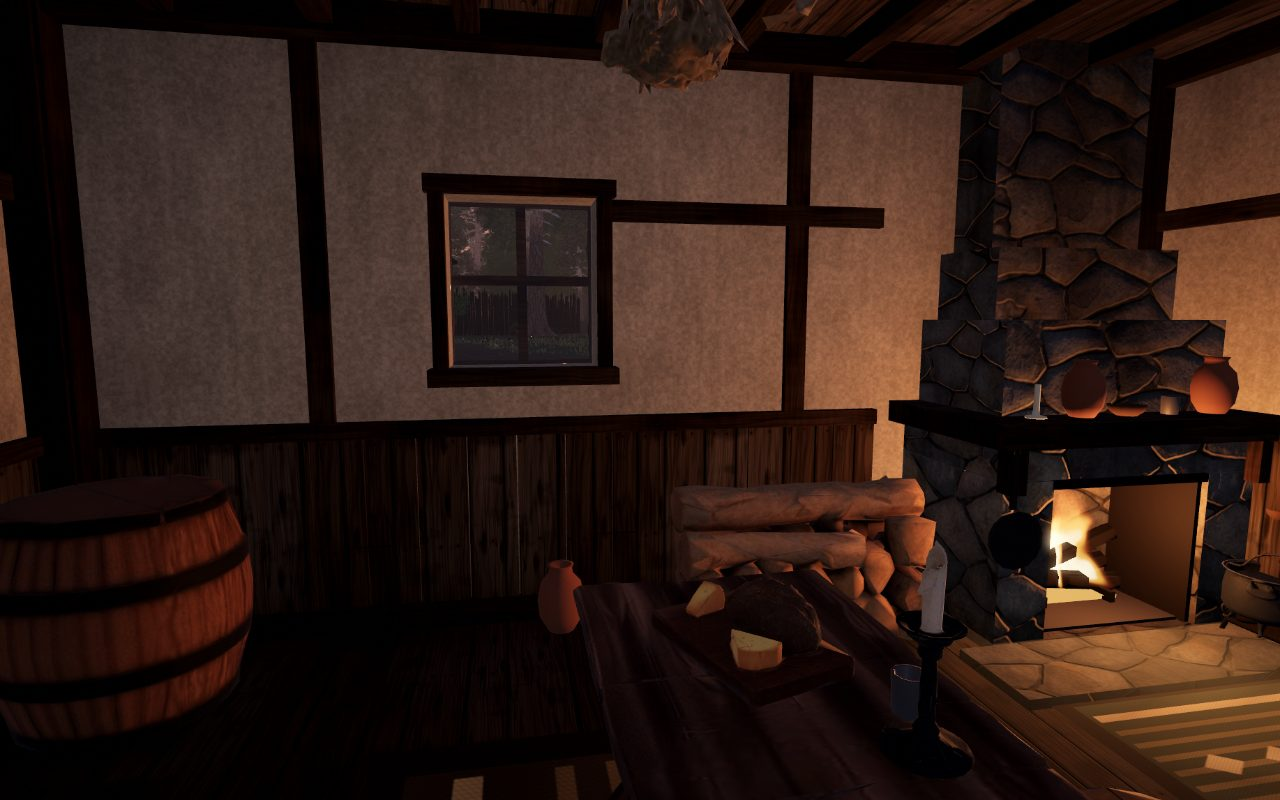
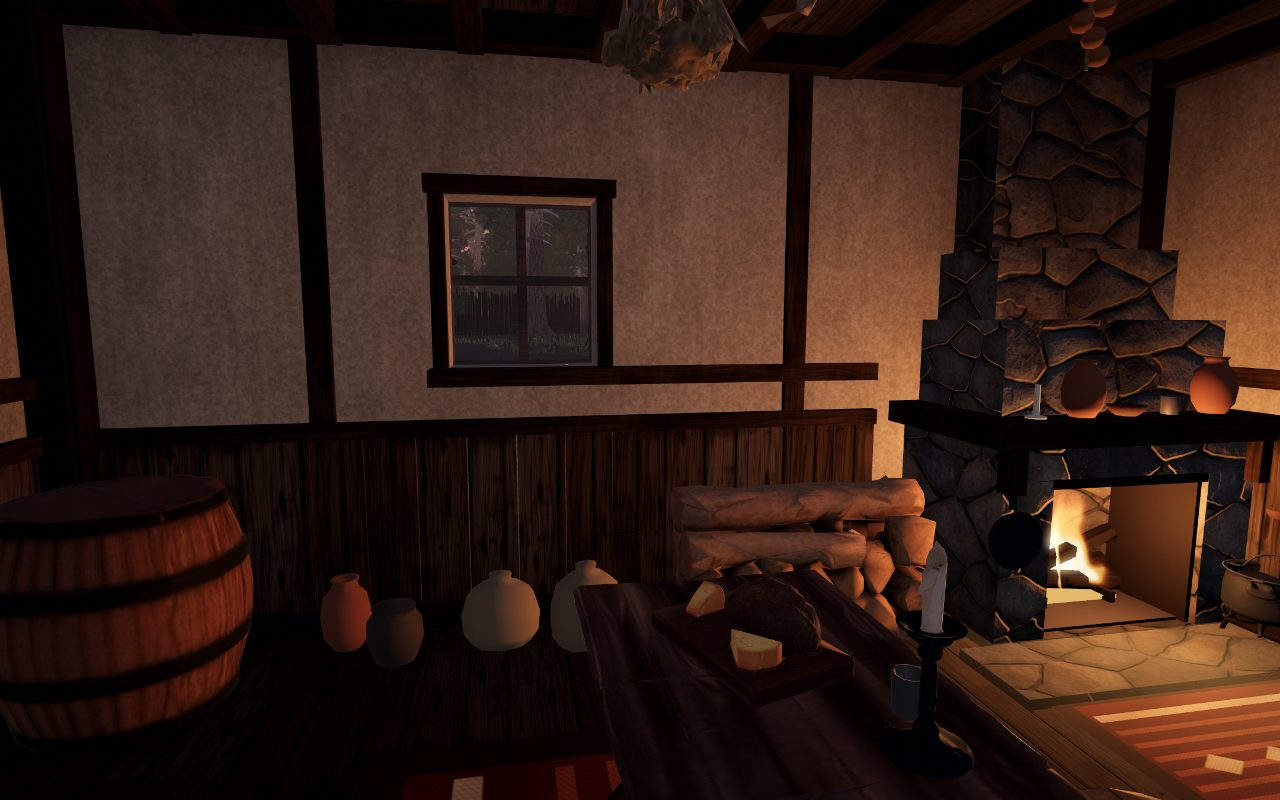
A136: second pass on the hearth rooms
Replace the mid-wall rail with a sill girt aligned to the windows' sills;
cut the plaster into finer cells and shade it per vertex (uneven lime
wash, per-panel tone, smoke under the ceiling and round the hearth);
heavier tie beams and joists with dark gaps overhead; textured, uneven
firewood with bark, split faces and ringed ends; onions and herbs hung
before each hearth and tool rails under free windows.

(cherry picked from commit 07d448e3019b1955150fed5c0b6c52b761b05814)

diff --git a/src/presentation/buildings.ts b/src/presentation/buildings.ts
@@ -133,7 +133,8 @@ export function roomInterior(R: Region, room: InteriorSpec, windows: { x: number
   const beams = Math.max(1, Math.round(b.w / 2.4) - 1);
   for (let i = 1; i <= beams; i++) {
     const x = -hw + (i * 2 * hw) / (beams + 1) + (inner() - 0.5) * 0.2;
-    R.timber.bx(x - 0.09, top - 0.24, -hd - 0.05, x + 0.09, top - 0.05, hd + 0.05, frame(), { grain: 'z', jit: 0.05, amp: 0.02 });
+    // A136: heavy tie beams, the joists over them darker in the gaps between (roomShade).
+    R.timber.bx(x - 0.13, top - 0.34, -hd - 0.05, x + 0.13, top - 0.05, hd + 0.05, frame(), { grain: 'z', jit: 0.05, amp: 0.02 });
   }
   for (const sz of [-1, 1]) R.timber.bx(-hw - 0.02, top - 0.19, sz * hd - 0.08, hw + 0.02, top - 0.05, sz * hd + 0.08, frame(), { grain: 'x', jit: 0.04, amp: 0.02 });
   if (floorOf === 'planks') roomFrame(R, room, windows, inner, frame);
@@ -252,21 +253,23 @@ function roomFrame(R: Region, room: InteriorSpec, windows: readonly RoomWindow[]
         return onSide && Math.abs((along === 'x' ? w.x : w.z) - t) < w.w / 2 + 0.35;
       });
     const posts = [-len + 0.09, len - 0.09, ...(len > 2.2 ? [-len * 0.36, len * 0.36] : []), 0].filter(clear);
-    // A136: the plaster above the wainscot framed as well: studs between the posts, and a rail across each panel where
-    // no window breaks it, so no stretch of bare plaster is wider than about 0.8 m or taller than the rail's gap.
+    // A136: the plaster above the wainscot framed as well: studs between the posts, so no stretch of bare plaster is
+    // wider than about 0.8 m.
     const studs: number[] = [];
     for (let t = -len + 0.5; t < len - 0.4; t += 0.78) if (clear(t) && !posts.some((p) => Math.abs(p - t) < 0.42)) studs.push(t);
     for (const t of studs) piece('timber', side, t - 0.055, t + 0.055, wainscot + 0.04, top - 0.18, 0, 0.04, frame(), 'y');
-    const rail = floor + 2.05, inWindow = (t: number) => windows.some((w) => {
-      const onSide = side === 'back' ? w.z < -hd + 0.3 : side === 'front' ? w.z > hd - 0.3 : side === 'left' ? w.x < -hw + 0.3 : w.x > hw - 0.3;
-      return onSide && Math.abs((along === 'x' ? w.x : w.z) - t) < w.w / 2 + 0.06;
-    });
-    for (const [t0, t1] of runs(side, len)) {
-      let s0: number | null = null;
-      for (let t = t0; t <= t1 + 1e-6; t += 0.05) {
-        const ok = t < t1 - 1e-6 && !inWindow(t);
-        if (ok && s0 === null) s0 = t;
-        if (!ok && s0 !== null) { if (t - s0 > 0.3) piece('timber', side, s0, t, rail - 0.05, rail + 0.05, 0, 0.045, frame(), along); s0 = null; }
+    // A sill girt only on a wall with windows: at their sill line, wall to wall, stopping at each window's frame, so the
+    // frame sits on it (a rail at any other height read as a cross nailed beside the window).
+    const mine = windows.filter((w) => (side === 'back' ? w.z < -hd + 0.3 : side === 'front' ? w.z > hd - 0.3 : side === 'left' ? w.x < -hw + 0.3 : w.x > hw - 0.3));
+    if (mine.length) {
+      const sill = Math.min(...mine.map((w) => w.y)), inWindow = (t: number) => mine.some((w) => Math.abs((along === 'x' ? w.x : w.z) - t) < w.w / 2 + 0.09);
+      for (const [t0, t1] of runs(side, len)) {
+        let s0: number | null = null;
+        for (let t = t0; t <= t1 + 1e-6; t += 0.02) {
+          const ok = t < t1 - 1e-6 && !inWindow(t);
+          if (ok && s0 === null) s0 = t;
+          if (!ok && s0 !== null) { if (t - s0 > 0.25) piece('timber', side, s0, t, sill - 0.09, sill, 0, 0.05, frame(), along); s0 = null; }
+        }
       }
     }
     for (const t of posts) {
@@ -280,7 +283,7 @@ function roomFrame(R: Region, room: InteriorSpec, windows: readonly RoomWindow[]
     }
   }
   // Joists across under the ceiling boards.
-  for (const z of joistsOf(room)) R.timber.bx(-hw, top - 0.16, z - 0.05, hw, top - 0.05, z + 0.05, frame(), { grain: 'x', jit: 0.05, amp: 0.03 });
+  for (const z of joistsOf(room)) R.timber.bx(-hw, top - 0.2, z - 0.06, hw, top - 0.05, z + 0.06, frame(), { grain: 'x', jit: 0.05, amp: 0.03 });
 }
 
 /**
@@ -308,8 +311,27 @@ export function roomShade(room: InteriorSpec, frame: THREE.Matrix4): (x: number,
       }
       if (h < 0.1 && lz < HEARTH_SHAPE.slab + 0.5) k *= 1 - 0.25 * Math.exp(-(lx * lx) / 0.5) * Math.min(1, Math.max(0, (HEARTH_SHAPE.slab + 0.5 - lz) / 0.5));
     }
-    return Math.max(0.28, k);
+    // A136: the plaster. Lime wash laid on unevenly, each panel between the studs its own shade, smoke under the
+    // ceiling, and the boards overhead dark between the joists.
+    const onWall = Math.min(ax, az) < 0.06 && y > floor + 1.0 && y < top - 0.06;
+    if (onWall) {
+      const t = ax < az ? z : x;
+      k *= 0.9 + 0.1 * valueNoise(t * 1.6, y * 2.1) + 0.05 * (valueNoise(t * 5.3 + 7, y * 4.7) - 0.5);
+      k *= 0.93 + 0.09 * hashUnit(Math.floor((t + 20) / 0.78) + (ax < az ? 0.5 : 0));
+      k *= 1 - 0.22 * Math.max(0, (y - (top - 0.9)) / 0.9) ** 1.5;
+      if (soot) k *= 1 - 0.3 * Math.exp(-((x - hearth.stack.x) ** 2 + (z - hearth.stack.z) ** 2) / 2.2) * Math.min(1, Math.max(0, y - floor - 1.1));
+    }
+    if (y > top - 0.06 && y < top + 0.03) k *= 0.5 * (soot ? 1 - 0.25 * Math.exp(-((x - hearth.stack.x) ** 2 + (z - hearth.stack.z) ** 2) / 4) : 1);
+    return Math.max(0.2, k);
   };
+}
+
+const hashUnit = (n: number) => { const s = Math.sin(n * 127.1 + 311.7) * 43758.5453; return s - Math.floor(s); };
+/** Smooth value noise in [0, 1] (A136): the unevenness of a room's lime wash. */
+function valueNoise(x: number, y: number): number {
+  const ix = Math.floor(x), iy = Math.floor(y), fx = x - ix, fy = y - iy, u = fx * fx * (3 - 2 * fx), v = fy * fy * (3 - 2 * fy);
+  const h = (a: number, b: number) => hashUnit(a * 57 + b * 131);
+  return (h(ix, iy) * (1 - u) + h(ix + 1, iy) * u) * (1 - v) + (h(ix, iy + 1) * (1 - u) + h(ix + 1, iy + 1) * u) * v;
 }
 
 /** Any ordinary building: foundation, walls in the chosen material, sagging roof, door, windows, chimney, and the clutter of use. */
@@ -368,7 +390,8 @@ function buildStandardPass(R: Region, terrain: Terrain, b: BuildingSpec, out: Bu
     // Boards line the room inside, a little behind the outer boards so their gaps stay dark.
     roomWalls(R.planks, b.w - 0.06, b.d - 0.06, wallH, y0, t - 0.03, room.door, mulc(rgb(TINT.wood), 0.82), 0.7, openings);
   } else if (b.wall === 'plaster') {
-    roomWalls(R.plaster, b.w, b.d, wallH, y0, t, room.door, jitterTone(TINT.plaster, rnd, 0.06), 0.7, openings);
+    // A136: finer cells (0.3 m) so the lime wash and smoke inside (roomShade) read; the outside takes the same cells.
+    roomWalls(R.plaster, b.w, b.d, wallH, y0, t, room.door, jitterTone(TINT.plaster, rnd, 0.06), 0.3, openings);
     timberFrame(R, rnd, b.w, b.d, wallH, y0, gap, openings);
   } else {
     roomWalls(R.stone, b.w, b.d, wallH, y0, t, room.door, jitterTone(TINT.stone, rnd, 0.05), 0.9, openings);

diff --git a/src/presentation/clutter.ts b/src/presentation/clutter.ts
@@ -183,20 +183,85 @@ function mergeColoured(parts: [THREE.BufferGeometry, number][]): THREE.BufferGeo
 }
 
 /**
- * Split firewood stacked beside a hearth (A136): nine logs in rows of four, three and two, 0.6 m long and about 0.35 m
- * high, their sawn ends pale. Stands on y = 0, the logs along x.
+ * Split firewood stacked beside a hearth (A136): eleven logs in rows of four, four and three, about 0.55 m long and
+ * 0.4 m high, laid unevenly (each a little turned, pushed out or short), some whole in their bark and some split in half
+ * with the pale split face showing. One texture (`firewoodMaterial`) holds bark, the sawn end's rings and split grain in
+ * three columns; the geometry's uv picks the column. Stands on y = 0, the logs along x.
  */
 export function firewoodGeometry(): THREE.BufferGeometry {
-  const parts: [THREE.BufferGeometry, number][] = [];
+  const parts: THREE.BufferGeometry[] = [];
+  const column = (g: THREE.BufferGeometry, col: number) => {
+    const uv = g.getAttribute('uv');
+    for (let i = 0; i < uv.count; i++) uv.setX(i, (col + Math.min(0.999, Math.max(0, uv.getX(i)))) / 3);
+  };
   let k = 0;
-  for (const [row, n] of [4, 3, 2].entries()) for (let i = 0; i < n; i++) {
-    const r = 0.055 + ((k * 7) % 5) * 0.004, x = (((k * 13) % 7) - 3) * 0.012;
-    parts.push([new THREE.CylinderGeometry(r, r, 0.55, 6).rotateY(k * 0.9).rotateZ(Math.PI / 2).translate(x, 0.065 + row * 0.1, (i - (n - 1) / 2) * 0.125), k % 3 ? 0x2e2219 : 0x3b2e22]);
-    k++;
+  const rnd = (n: number) => { const x = Math.sin(n * 91.7 + 13.1) * 43758.5; return x - Math.floor(x); };
+  for (const [row, n] of [4, 4, 3].entries()) for (let i = 0; i < n; i++, k++) {
+    const r = 0.05 + rnd(k) * 0.025, len = 0.48 + rnd(k + 40) * 0.12, split = rnd(k + 80) < 0.45;
+    const theta = split ? Math.PI : Math.PI * 2;
+    const side = new THREE.CylinderGeometry(r, r * (0.92 + rnd(k + 9) * 0.1), len, 7, 1, true, 0, theta);
+    column(side, 0);
+    const ends = [len / 2, -len / 2].map((y) => {
+      const cap = new THREE.CircleGeometry(r, 7, 0, theta).rotateX(y > 0 ? -Math.PI / 2 : Math.PI / 2).translate(0, y, 0);
+      // A half disc turned to lie under the half shell (which covers +x).
+      if (split) cap.rotateY(y > 0 ? -Math.PI / 2 : Math.PI / 2);
+      column(cap, 1);
+      return cap;
+    });
+    const log: THREE.BufferGeometry[] = [side, ...ends];
+    if (split) {
+      // The split face: a flat plank through the axis.
+      const face = new THREE.PlaneGeometry(2 * r, len).rotateY(Math.PI / 2);
+      column(face, 2);
+      log.push(face);
+    }
+    const yaw = (rnd(k + 3) - 0.5) * 0.2, roll = split ? (row % 2 ? 1 : -1) * Math.PI / 2 + (rnd(k + 5) - 0.5) * 0.6 : rnd(k + 5) * 6;
+    for (const g of log) {
+      g.rotateY(roll).rotateZ(Math.PI / 2).rotateY(yaw);
+      g.translate((rnd(k + 7) - 0.5) * 0.08, 0.06 + row * 0.105 + (rnd(k + 11) - 0.5) * 0.015, (i - (n - 1) / 2) * 0.13 + (row % 2) * 0.03 + (rnd(k + 13) - 0.5) * 0.02);
+      parts.push(g);
+    }
   }
-  const g = mergeColoured(parts), n = g.getAttribute('normal'), c = g.getAttribute('color');
-  for (let i = 0; i < n.count; i++) if (Math.abs(n.getX(i)) > 0.9) c.setXYZ(i, 0.16, 0.1, 0.055);
-  return g;
+  const flat = parts.map((g) => (g.index ? g.toNonIndexed() : g));
+  const out = new THREE.BufferGeometry(), count = flat.reduce((n, g) => n + g.getAttribute('position').count, 0);
+  for (const [name, size] of [['position', 3], ['normal', 3], ['uv', 2]] as const) {
+    const arr = new Float32Array(count * size);
+    let o = 0;
+    for (const g of flat) { arr.set(g.getAttribute(name).array as Float32Array, o); o += g.getAttribute(name).count * size; }
+    out.setAttribute(name, new THREE.BufferAttribute(arr, size));
+  }
+  parts.forEach((g) => g.dispose()); flat.forEach((g) => g.dispose());
+  return out;
+}
+
+/** Bark, the rings of a sawn end and split grain (A136), drawn once on a small canvas. */
+export function firewoodMaterial(): THREE.MeshStandardMaterial {
+  const W = 384, H = 128, canvas = document.createElement('canvas');
+  canvas.width = W; canvas.height = H;
+  const g = canvas.getContext('2d')!;
+  const rnd = (n: number) => { const x = Math.sin(n * 12.9898) * 43758.5453; return x - Math.floor(x); };
+  // Bark: dark furrowed strips along the log, with lichen grey in places.
+  g.fillStyle = '#3a2c20'; g.fillRect(0, 0, 128, H);
+  for (let i = 0; i < 70; i++) {
+    const x = rnd(i) * 128, w = 1 + rnd(i + 99) * 4;
+    g.fillStyle = rnd(i + 7) < 0.5 ? '#1f170f' : rnd(i + 3) < 0.85 ? '#4e3d2c' : '#6d6a58';
+    g.fillRect(x, rnd(i + 5) * H * 0.5, w, H * (0.4 + rnd(i + 11) * 0.6));
+  }
+  // The sawn end: rings round a dark heart, a crack, cut marks.
+  const cx = 128 + 64, cy = 64;
+  g.fillStyle = '#9a7a52'; g.fillRect(128, 0, 128, H);
+  for (let r = 60; r > 2; r -= 3 + rnd(r) * 3) { g.strokeStyle = r % 2 ? 'rgba(80,52,30,0.55)' : 'rgba(150,118,80,0.5)'; g.lineWidth = 1.5; g.beginPath(); g.arc(cx, cy, r, 0, Math.PI * 2); g.stroke(); }
+  g.fillStyle = '#5a3e26'; g.beginPath(); g.arc(cx, cy, 5, 0, Math.PI * 2); g.fill();
+  g.strokeStyle = '#2a1c10'; g.lineWidth = 2; g.beginPath(); g.moveTo(cx, cy); g.lineTo(cx + 40, cy - 22); g.stroke();
+  // The rim of bark round the end.
+  g.strokeStyle = '#2a1e14'; g.lineWidth = 7; g.beginPath(); g.arc(cx, cy, 62, 0, Math.PI * 2); g.stroke();
+  // Split grain: pale, fibrous streaks along the log.
+  g.fillStyle = '#a4825a'; g.fillRect(256, 0, 128, H);
+  for (let i = 0; i < 60; i++) { g.fillStyle = rnd(i + 300) < 0.5 ? 'rgba(110,80,50,0.5)' : 'rgba(190,160,120,0.4)'; g.fillRect(256 + rnd(i + 200) * 128, 0, 1 + rnd(i + 250) * 2, H); }
+  const map = new THREE.CanvasTexture(canvas);
+  map.colorSpace = THREE.SRGBColorSpace;
+  map.anisotropy = 4;
+  return new THREE.MeshStandardMaterial({ map, roughness: 0.95, metalness: 0, side: THREE.DoubleSide });
 }
 
 /** A peg rail: a strip one unit long (scaled along x), its pegs at y = 0 standing out from the wall. */

diff --git a/src/world/dressing.ts b/src/world/dressing.ts
@@ -101,6 +101,14 @@ const RAILS: Record<string, HungKind[][]> = {
   brewer: [['ladle', 'onions'], ['rope', 'basket'], ['ladle']],
   inn: [['pan', 'ladle'], ['pan', 'onions']], fisher: [['rope', 'basket'], ['rope']], keeper: [['pan', 'ladle']], bakery: [['basket', 'ladle']],
 };
+/** What each household hangs under its windows (A136): the tools of its work, two to a rail. */
+const WINDOW_TOOLS: Record<string, HungKind[]> = {
+  weaver: ['basket', 'rope', 'ladle', 'basket'], woodcutter: ['axe', 'sickle', 'rope', 'axe'], herbalist: ['sickle', 'basket', 'onions', 'ladle'],
+  hunter: ['axe', 'rope', 'sickle', 'basket'], farmer: ['sickle', 'axe', 'basket', 'rope'], brewer: ['ladle', 'basket', 'rope', 'pan'],
+  inn: ['pan', 'ladle'], fisher: ['rope', 'basket'],
+};
+/** The rail under a window's sill girt (the sill is about 1.29 m over the floor); the longest tool clears the floor. */
+const WINDOW_RAIL_Y = 1.1;
 /** How wide each hung thing is along the rail, metres. */
 const HUNG_W: Record<HungKind, number> = { ladle: 0.14, pan: 0.3, sickle: 0.3, rope: 0.32, axe: 0.24, saw: 0.62, basket: 0.34, onions: 0.16 };
 /** A peg rail's height above the floor: above the wainscot, the things on it clear of the rail along its top. */
@@ -264,6 +272,42 @@ export function dressRoom(room: InteriorSpec, placed: readonly FurniturePlacemen
         k++;
       }
       if (k >= unhung.length) break;
+    }
+  }
+
+  // Onions and a bunch of herbs drying from the joist nearest the front of the hearth (A136), either side of the fire's
+  // light, where the room's usual views take them in.
+  if (hearth && room.building.kind !== 'bakery') {
+    const joists = joistsOf(room);
+    for (const [i, side] of [-1, 1].entries()) {
+      const p = hearth.at(side * 0.95, CHIMNEY_STACK + 1.25), z = joists.reduce((b, j) => (Math.abs(j - p.z) < Math.abs(b - p.z) ? j : b), joists[0]!);
+      if (Math.abs(p.x) > hw - 0.25 || Math.hypot(p.x - hearth.stack.x, z - hearth.stack.z) < 1.0) continue;
+      out.push(i === 0 ? { room, piece: 'hung', hung: 'onions', x: p.x, z, y: room.wallTop - room.floorTop - 0.2, yaw: hearth.yaw }
+        : { room, piece: 'herbs', x: p.x, z, y: room.wallTop - room.floorTop - 0.86, yaw: hearth.yaw + 0.7, scale: 0.85 });
+    }
+  }
+
+  // Tools on the window walls (A136): a short peg rail under a window's sill where nothing stands before it.
+  const tools = WINDOW_TOOLS[household] ?? [];
+  let tool = 0;
+  for (const w of windows) {
+    if (tool >= tools.length) break;
+    const front = { x0: w.x0 - 0.1, x1: w.x1 + 0.1, z0: w.z0 - 0.1, z1: w.z1 + 0.1 };
+    if (pieces.some((o) => near(front, o, 0.05)) || taken.some((o) => near(w, o, 0))) continue;
+    const wall: Wall = w.z0 <= -hd + 0.01 ? 'back' : w.z1 >= hd - 0.01 ? 'front' : w.x0 <= -hw + 0.01 ? 'left' : 'right';
+    const yaw = wall === 'back' ? 0 : wall === 'front' ? Math.PI : wall === 'left' ? Math.PI / 2 : -Math.PI / 2;
+    const mx = (w.x0 + w.x1) / 2, mz = (w.z0 + w.z1) / 2;
+    const x = wall === 'left' ? -hw + 0.05 : wall === 'right' ? hw - 0.05 : mx, z = wall === 'back' ? -hd + 0.05 : wall === 'front' ? hd - 0.05 : mz;
+    const pair = tools.slice(tool, tool + 2), width = pair.reduce((t, k) => t + HUNG_W[k] + 0.06, 0.08);
+    tool += pair.length;
+    taken.push(w);
+    out.push({ room, piece: 'rail', x, z, y: WINDOW_RAIL_Y, yaw, size: [width, 0.08] });
+    const c = Math.cos(yaw), s = Math.sin(yaw);
+    let t = -width / 2 + 0.07;
+    for (const kind of pair) {
+      const along = t + HUNG_W[kind] / 2;
+      out.push({ room, piece: 'hung', hung: kind, x: x + along * c, z: z - along * s, y: WINDOW_RAIL_Y - 0.005, yaw });
+      t += HUNG_W[kind] + 0.06;
     }
   }
 

diff --git a/src/presentation/furniture.ts b/src/presentation/furniture.ts
@@ -10,7 +10,7 @@ import { observeModelLoad, withModelLoadSlot, type ModelLoadProgress } from './a
 import { downloadAsset } from './assets/download';
 import type { FrameContext, SceneModule } from './context';
 import { roughnessFloor } from './matte';
-import { clutterGeometry, clutterMaterial, clutterOnPiece, firewoodGeometry, hungGeometry, hungMaterial, pegRailGeometry, type ClutterKind, type HungKind } from './clutter';
+import { clutterGeometry, clutterMaterial, clutterOnPiece, firewoodGeometry, firewoodMaterial, hungGeometry, hungMaterial, pegRailGeometry, type ClutterKind, type HungKind } from './clutter';
 
 /**
  * The rooms' furniture, drawn (A66): the prepared Meshy pieces in public/models/furniture, placed as world/furniture.ts
@@ -155,11 +155,11 @@ export function buildFurniture(templates: FurnitureTemplates, rooms: RoomLocator
     later.push({ mesh, instances, shown: '' });
   }
   // One material for the rails, the hung things and the firewood: their wood and iron are in the vertex colours.
-  const hungMat = hungMaterial();
+  const hungMat = hungMaterial(), woodMat = firewoodMaterial();
   for (const [name, instances, geometry] of [['peg rails', rails, pegRailGeometry()] as const,
     ...[...byHung].map(([kind, list]) => [`hung ${kind}`, list, kind === 'firewood' ? firewoodGeometry() : hungGeometry(kind)] as const)]) {
     if (!instances.length) { geometry.dispose(); continue; }
-    const mesh = new THREE.InstancedMesh(geometry, hungMat, instances.length);
+    const mesh = new THREE.InstancedMesh(geometry, name === 'hung firewood' ? woodMat : hungMat, instances.length);
     mesh.name = `Furniture / ${name}`;
     mesh.receiveShadow = true;
     mesh.count = 0;
@@ -290,7 +290,7 @@ export function buildFurniture(templates: FurnitureTemplates, rooms: RoomLocator
         if (mesh.userData.ownsResources) { mesh.geometry.dispose(); (mesh.material as THREE.Material).dispose(); }
         if (mesh.userData.ownsGeometry) mesh.geometry.dispose();
       }
-      hungMat.dispose();
+      hungMat.dispose(); woodMat.map?.dispose(); woodMat.dispose();
       const card = meshes.find(({ mesh }) => mesh.name === 'Furniture / floor shadows')?.mesh;
       if (card) { card.geometry.dispose(); (card.material as THREE.MeshBasicMaterial).map?.dispose(); (card.material as THREE.Material).dispose(); }
     },

diff --git a/docs/engineering/a136-hearth-rooms-and-sign.md b/docs/engineering/a136-hearth-rooms-and-sign.md
@@ -7,15 +7,26 @@ bar. This change works on both, keeping the rooms as cheap as they were.
 ## Rooms
 
 - **Framed walls.** `roomFrame` (presentation/buildings.ts) adds studs between the posts, about 0.8 m apart, from the
-  wainscot rail to the plate, and a rail across each panel at 2.05 m where no window breaks it. They avoid windows,
-  the doorway and the hearth, and are merged into the shell.
+  wainscot rail to the plate. Walls with windows also get a sill girt at the windows' sill line, wall to wall, stopping
+  at each window's frame. A first version ran a rail at 2.05 m that read as a cross nailed beside each window. The
+  timber avoids windows, the doorway and the hearth, and is merged into the shell.
+- **Plaster.** The plaster walls are cut into 0.3 m cells (were 0.7 m) so `roomShade` can colour them per vertex. The
+  lime wash is uneven (value noise), each panel between studs has its own shade, the plaster darkens under the
+  ceiling, and soot spreads round the hearth. The boards overhead are dark between the joists. No texture or draw is
+  added.
+- **Ceiling.** The tie beams are heavier (0.26 by 0.29 m) and the joists deeper (0.12 by 0.15 m), with the boards
+  between them shaded dark. The ceiling stays closed at the wall top.
 - **Things hung up.** World/dressing.ts adds peg rails (`RAILS`, one strip with six pegs) hung with each household's
   things: pans, ladles, sickles, coils of rope, axes, a frame saw, baskets and strings of onions (`HungKind`). The
   first rail looks for wall near the hearth. Rows that find no free wall hang from the ceiling joists instead, in a row
   near the hearth and never over the fire. Every hearth also has a pan and a ladle on hooks under the ends of its
   mantel.
-- **By the fire.** Split firewood is stacked against the breast on whichever side has room (`firewood`). A rug lies
-  before the hearthstone where no table rug is already there.
+- **By the fire.** Firewood is stacked unevenly against the breast on whichever side has room (`firewood`). Some logs
+  are whole and some split in half, and they vary in length and turn. One small canvas texture holds bark, sawn end
+  rings and split grain. A rug lies before the hearthstone where no table rug is already there. Onions and a bunch of
+  herbs hang from the joist in front of the hearth.
+- **Window walls.** A short peg rail under a window's sill, where nothing stands in front of it, holds two of the
+  household's tools (`WINDOW_TOOLS`).
 - **Stores.** Sacks and wicker baskets stand together against a wall (`STORES`).
 - **Firelight.** The fire module draws a soft pool of warm light on the floor before each hearth. It is a fourth card
   in the same additive draw, falls off with a smooth power curve and flickers with the flames. The room's point light
@@ -42,10 +53,14 @@ and no longer hangs across a window.
 
 ## Before and after
 
+Room stills are at dusk unless marked noon.
+
 | Before | After |
 | --- | --- |
 | ![weaver's hearth before](a136-hearth-rooms-and-sign/before_hearth.jpg) | ![weaver's hearth after](a136-hearth-rooms-and-sign/after_hearth.jpg) |
 | ![herbalist before](a136-hearth-rooms-and-sign/before_house_c.jpg) | ![herbalist after](a136-hearth-rooms-and-sign/after_house_c.jpg) |
+| ![weaver's hearth at noon before](a136-hearth-rooms-and-sign/before_hearth_noon.jpg) | ![weaver's hearth at noon after](a136-hearth-rooms-and-sign/after_hearth_noon.jpg) |
+| ![herbalist at noon before](a136-hearth-rooms-and-sign/before_house_c_noon.jpg) | ![herbalist at noon after](a136-hearth-rooms-and-sign/after_house_c_noon.jpg) |
 | ![hunter before](a136-hearth-rooms-and-sign/before_house_d.jpg) | ![hunter after](a136-hearth-rooms-and-sign/after_house_d.jpg) |
 | ![sign at noon before](a136-hearth-rooms-and-sign/before_sign_noon.jpg) | ![sign at noon after](a136-hearth-rooms-and-sign/after_sign_noon.jpg) |
 | ![sign at dusk before](a136-hearth-rooms-and-sign/before_sign_dusk.jpg) | ![sign at dusk after](a136-hearth-rooms-and-sign/after_sign_dusk.jpg) |
@@ -55,8 +70,8 @@ sign in its new place.
 
 ## Still short
 
-The plaster panels are still plain between the timbers. The ceiling stays boarded at the wall top, so no rafters show.
-The firewood logs are smooth cylinders without bark texture. The sign's emblem is relief in vertex colour, not a
+The ceiling stays boarded at the wall top, so no rafters or roof boards show. The plaster's variation is per vertex
+(0.3 m), not a baked texture, so it is soft rather than crisp. The sign's emblem is relief in vertex colour, not a
 painted texture.
 
 ## Tests
